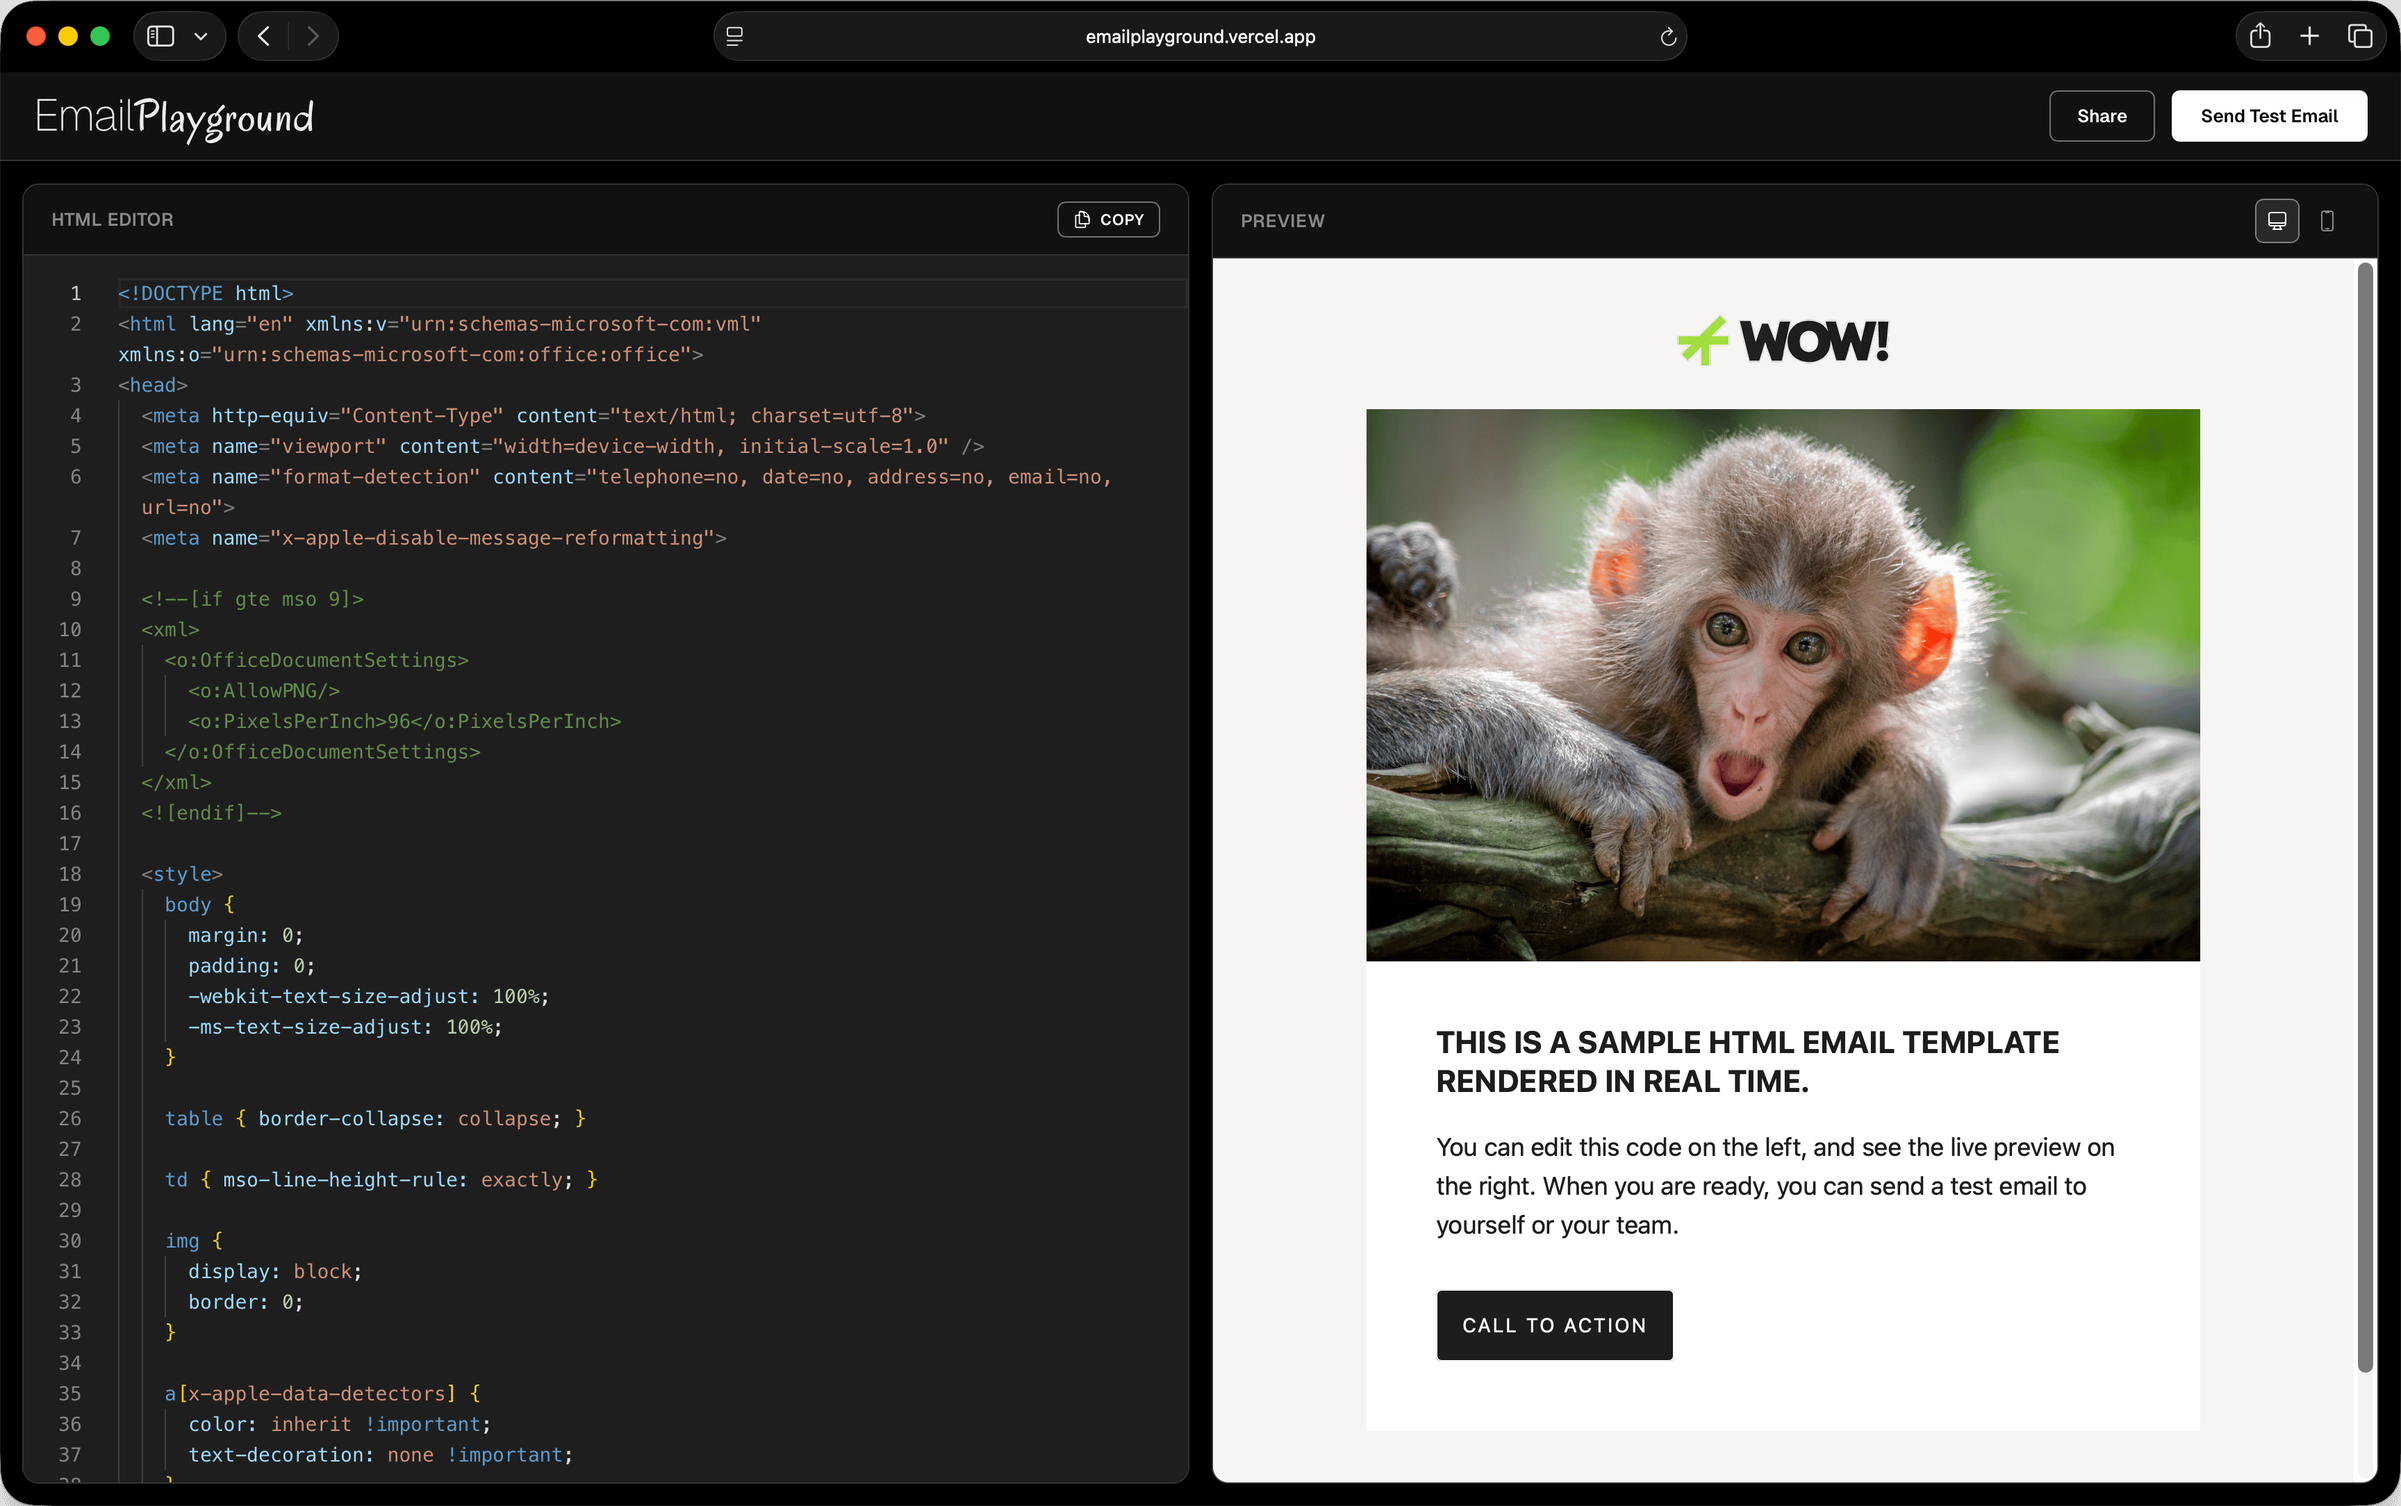
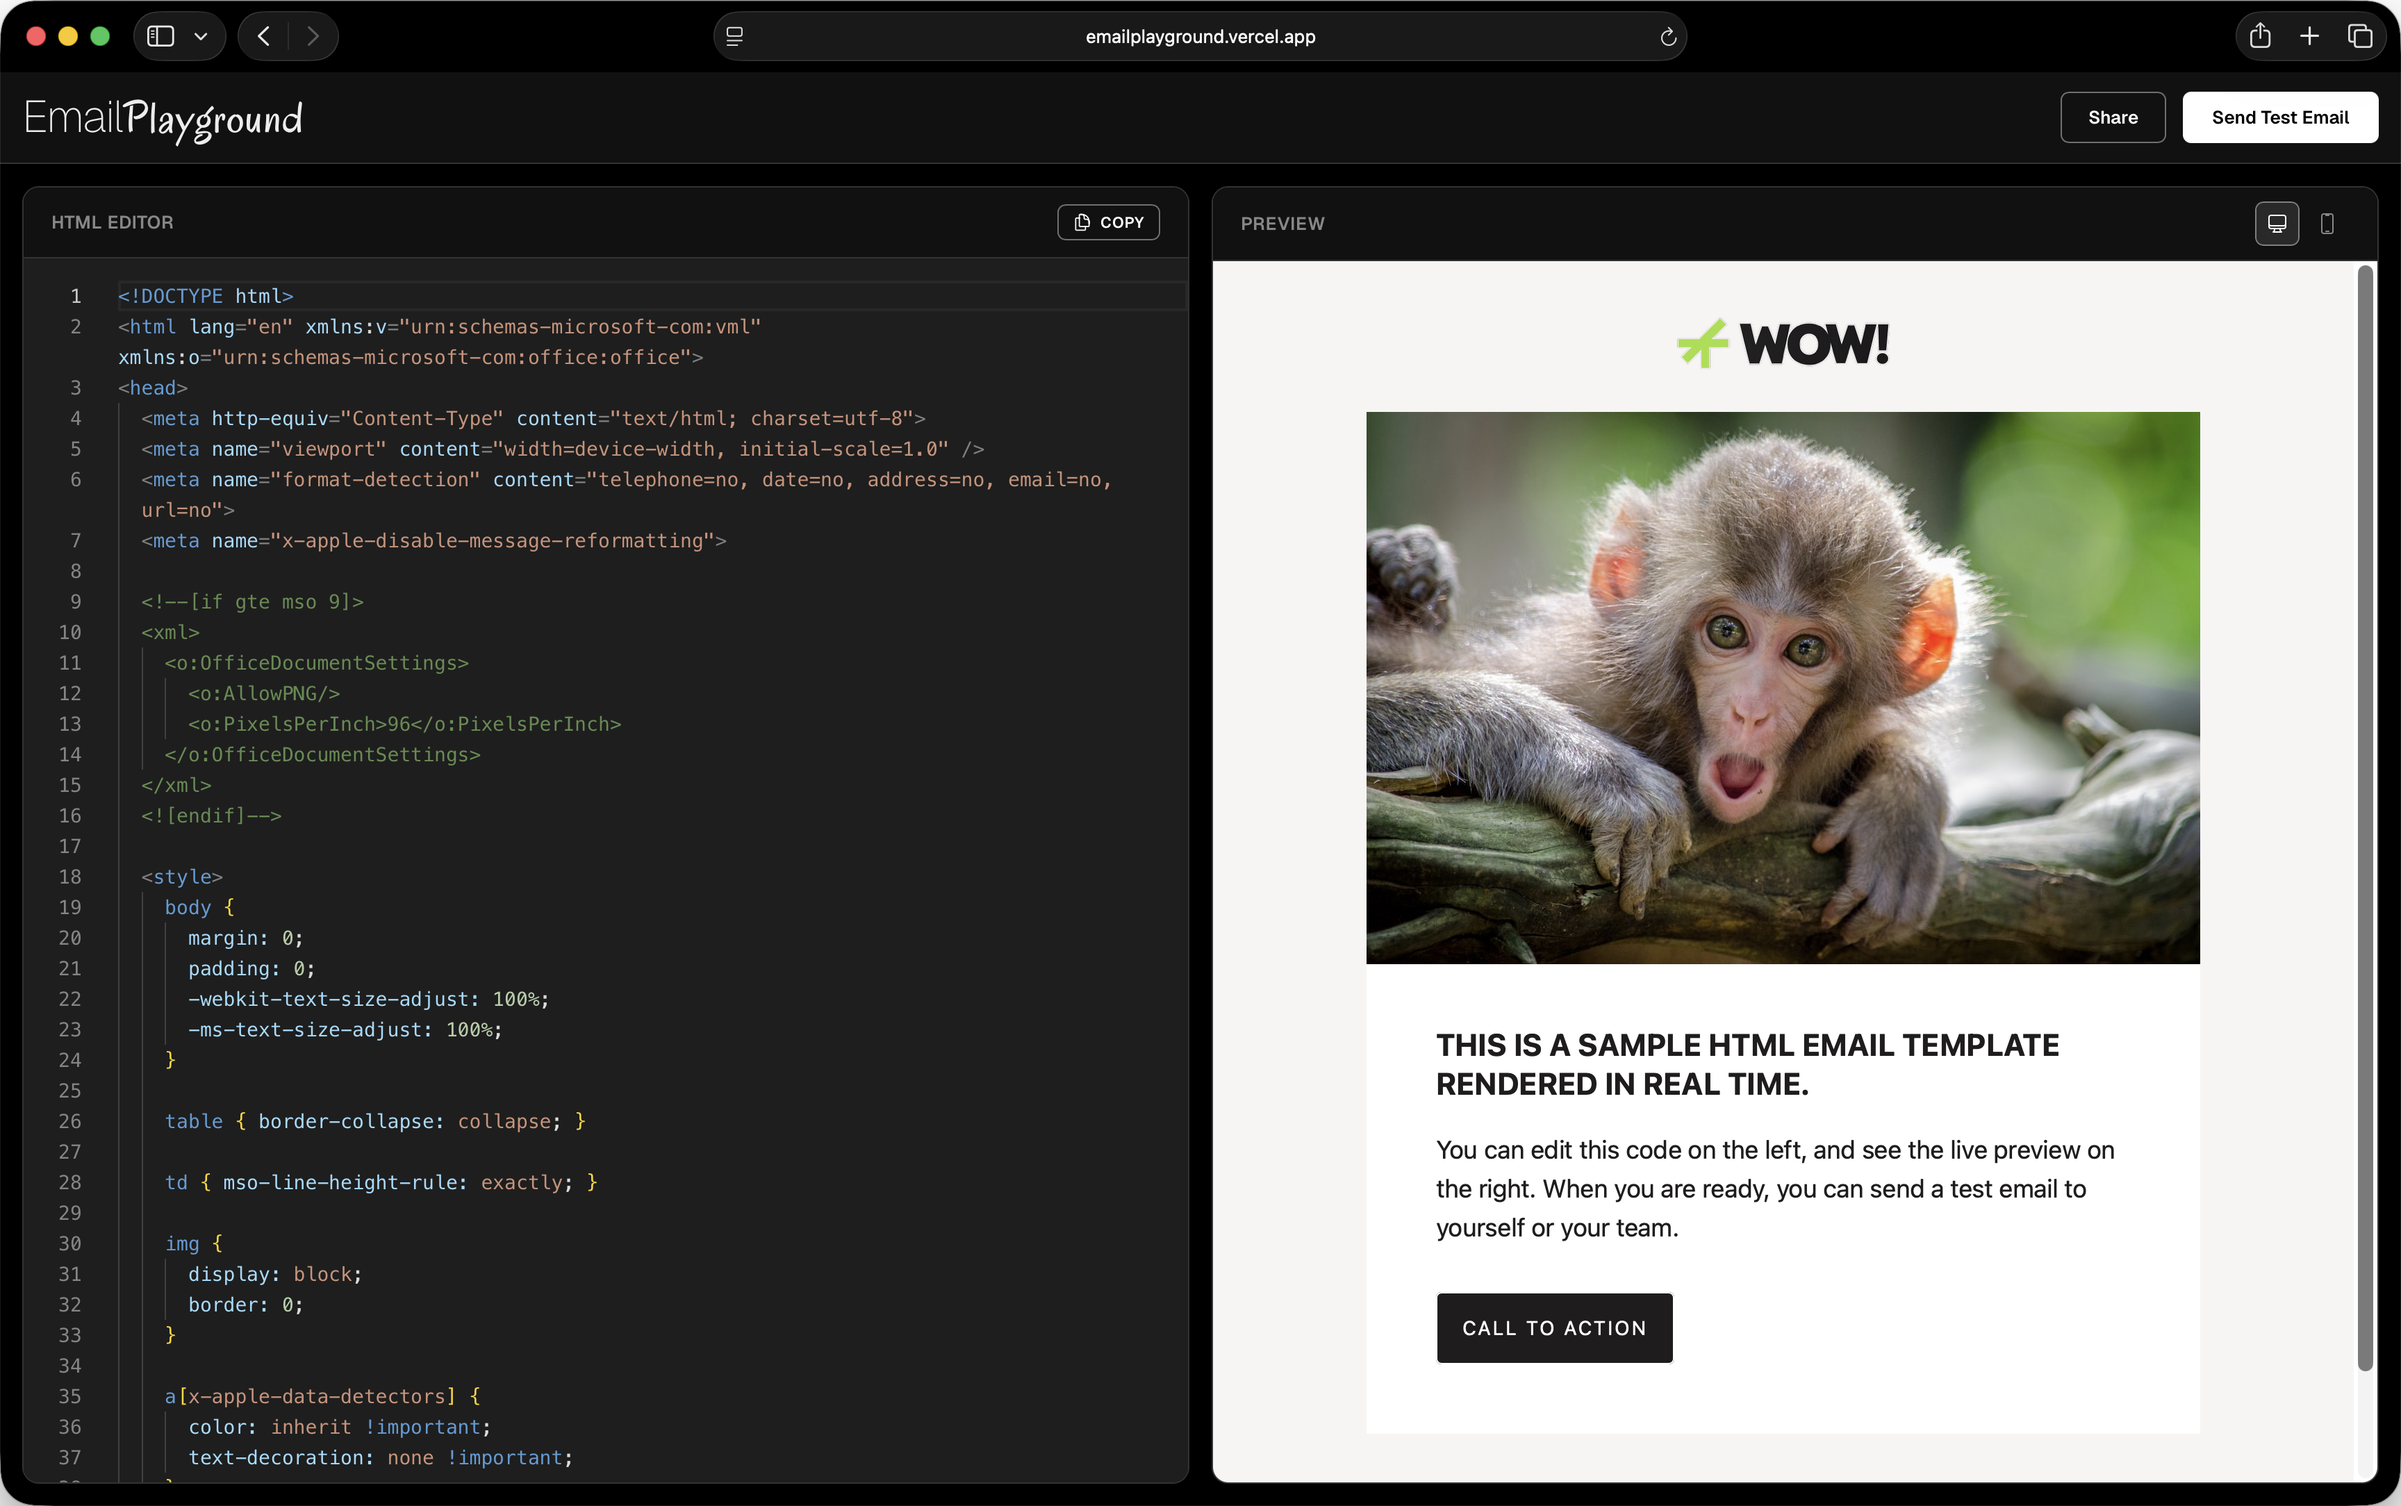
Update header padding

diff --git a/app/components/Header.js b/app/components/Header.js
@@ -68,7 +68,7 @@ export default function Header({
   shareUrl = '',
 }) {
   return (
-    <header className="flex items-center justify-between px-6 py-1.75 bg-surface-secondary border-b border-border-primary gap-4 shrink-0 max-md:flex-wrap max-md:gap-3">
+    <header className="flex items-center justify-between px-4 py-2 bg-surface-secondary border-b border-border-primary gap-4 shrink-0 max-md:flex-wrap max-md:gap-3">
       {/* Logo */}
       <div className="flex items-center gap-4">
         <h1 className="text-[1.375rem] sm:text-[2rem] font-[150] text-text-primary m-0 tracking-tight">
